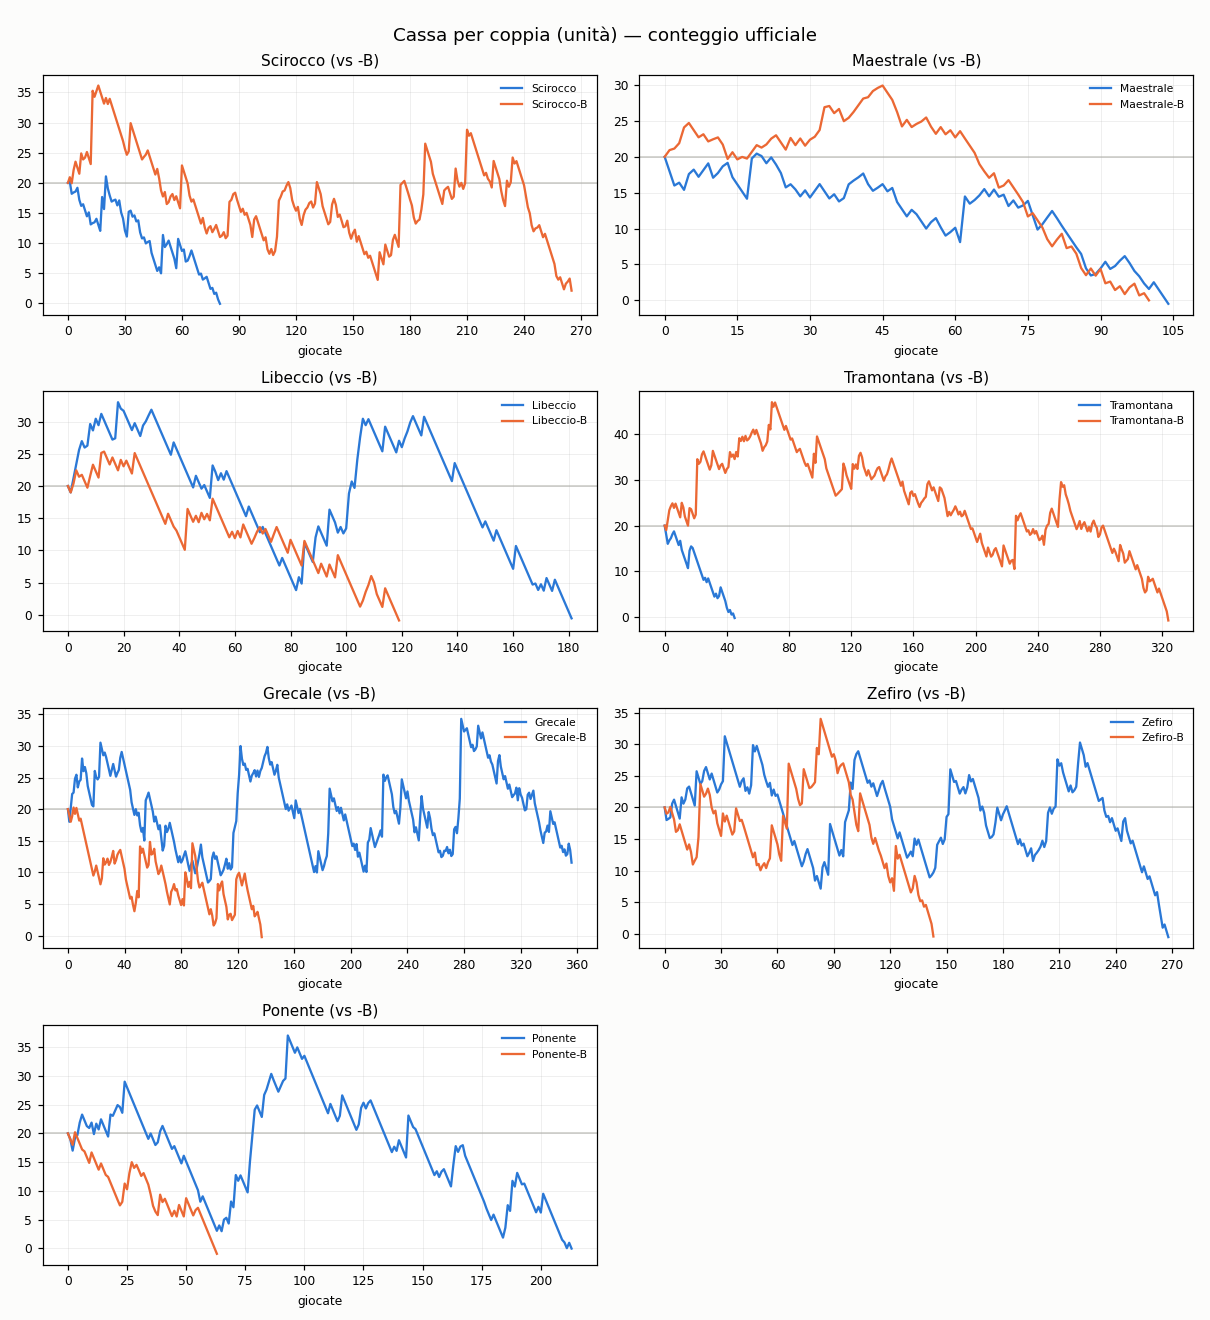
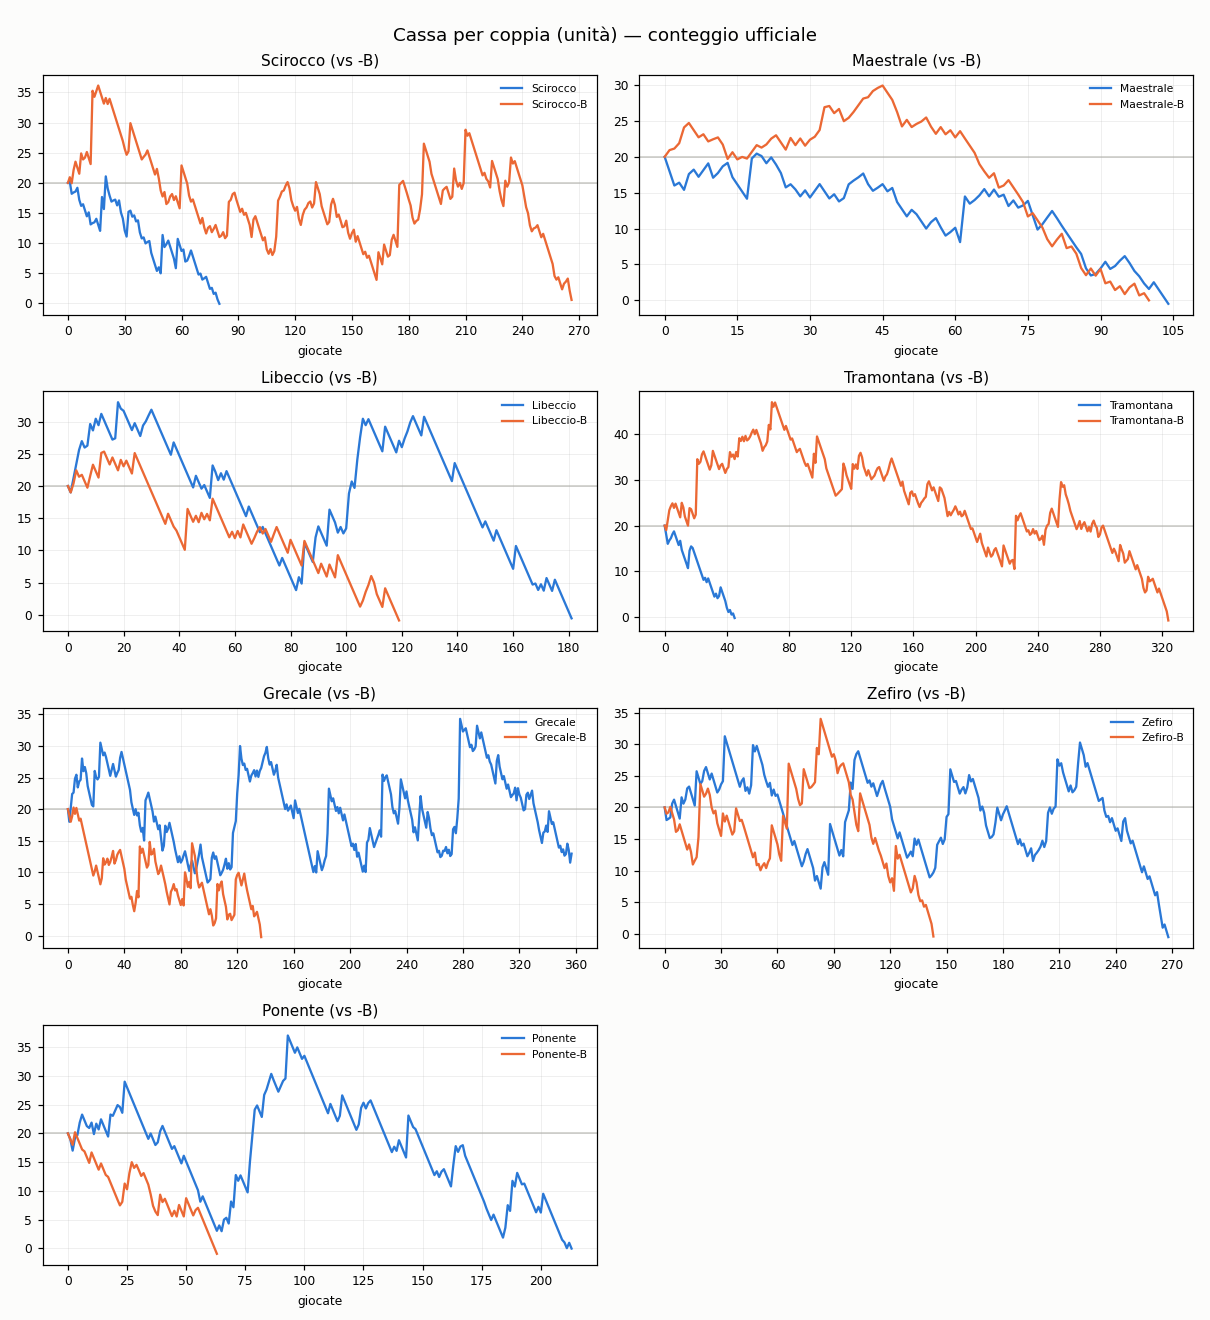
aggiornamento 2026-07-29 13:36 UTC

diff --git a/README.md b/README.md
@@ -37,9 +37,9 @@ scala in unità). Non indichiamo quale.
 
 ## Grafici
 
-![Coppie: dati completi vs ridotti](https://raw.githubusercontent.com/Kitem19/ippica-track-record/main/charts/equity_pairs.png?v=80c3dd68)
+![Coppie: dati completi vs ridotti](https://raw.githubusercontent.com/Kitem19/ippica-track-record/main/charts/equity_pairs.png?v=de10c93e)
 
-![Delta per coppia](https://raw.githubusercontent.com/Kitem19/ippica-track-record/main/charts/coppie_delta.png?v=9a87cafa)
+![Delta per coppia](https://raw.githubusercontent.com/Kitem19/ippica-track-record/main/charts/coppie_delta.png?v=e49dc534)
 
 ### Come leggere i grafici
 
@@ -56,11 +56,11 @@ scala in unità). Non indichiamo quale.
 
 _Poche giornate: numeri ancora rumorosi, si conclude a fine fase (31/7)._
 
-- **Scirocco**: dati ridotti avanti di 2,2u — qui gli extra non aiutano
+- **Scirocco**: in sostanziale pareggio — troppo presto per dire
 - **Maestrale**: in sostanziale pareggio — troppo presto per dire
 - **Libeccio**: in sostanziale pareggio — troppo presto per dire
 - **Tramontana**: in sostanziale pareggio — troppo presto per dire
-- **Grecale**: dati completi avanti di 11,8u
+- **Grecale**: dati completi avanti di 13,2u
 - **Zefiro**: in sostanziale pareggio — troppo presto per dire
 - **Ponente**: in sostanziale pareggio — troppo presto per dire
 
@@ -68,22 +68,22 @@ _Poche giornate: numeri ancora rumorosi, si conclude a fine fase (31/7)._
 
 | Sistema | Cassa (u) | P/L (u) | Selezioni | Escluse | Stato |
 |---|---|---|---|---|---|
-| Grecale | 11,5 | -8,5 | 356 | 4 | 🟢 |
-| Scirocco-B | 2,1 | -17,9 | 265 | 6 | 🟢 |
-| Maestrale-B | 0,0 | -20,0 | 100 | 291 | 🛑 |
-| Ponente | 0,0 | -20,0 | 213 | 61 | 🛑 |
-| Scirocco | 0,0 | -20,1 | 80 | 312 | 🛑 |
-| Grecale-B | 0,0 | -20,2 | 137 | 201 | 🛑 |
-| Tramontana | 0,0 | -20,3 | 45 | 348 | 🛑 |
+| Grecale | 13,0 | -7,0 | 357 | 4 | 🟢 |
+| Scirocco-B | 0,6 | -19,4 | 266 | 6 | 🟢 |
+| Maestrale-B | 0,0 | -20,0 | 100 | 292 | 🛑 |
+| Ponente | 0,0 | -20,0 | 213 | 62 | 🛑 |
+| Scirocco | 0,0 | -20,1 | 80 | 313 | 🛑 |
+| Grecale-B | 0,0 | -20,2 | 137 | 202 | 🛑 |
+| Tramontana | 0,0 | -20,3 | 45 | 349 | 🛑 |
 | Zefiro-B | 0,0 | -20,5 | 143 | 98 | 🛑 |
-| Maestrale | 0,0 | -20,5 | 104 | 310 | 🛑 |
-| Zefiro | 0,0 | -20,6 | 268 | 36 | 🛑 |
-| Libeccio | 0,0 | -20,6 | 181 | 216 | 🛑 |
-| Tramontana-B | 0,0 | -20,8 | 324 | 62 | 🛑 |
-| Libeccio-B | 0,0 | -20,9 | 119 | 226 | 🛑 |
-| Ponente-B | 0,0 | -21,0 | 63 | 116 | 🛑 |
+| Maestrale | 0,0 | -20,5 | 104 | 311 | 🛑 |
+| Zefiro | 0,0 | -20,6 | 268 | 37 | 🛑 |
+| Libeccio | 0,0 | -20,6 | 181 | 217 | 🛑 |
+| Tramontana-B | 0,0 | -20,8 | 324 | 63 | 🛑 |
+| Libeccio-B | 0,0 | -20,9 | 119 | 227 | 🛑 |
+| Ponente-B | 0,0 | -21,0 | 63 | 117 | 🛑 |
 
-_Aggiornato: 29/07 15:31_
+_Aggiornato: 29/07 15:36_
 ---
 *Nessuna delle informazioni qui pubblicate costituisce consiglio di gioco.
 Il gioco può causare dipendenza — 18+.*
